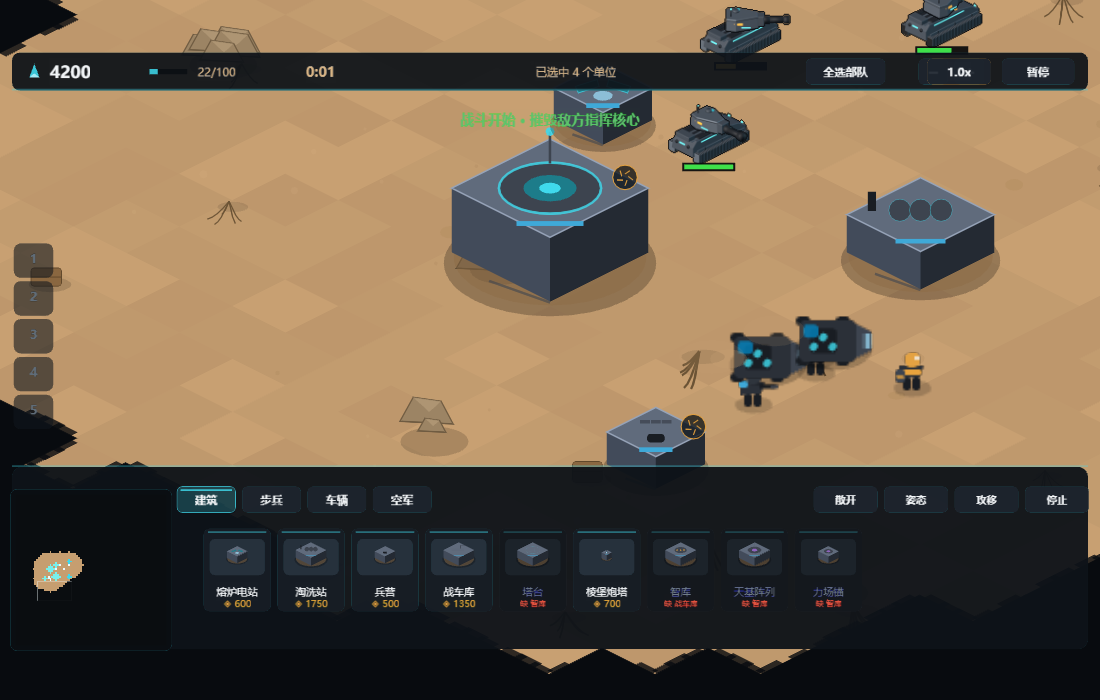
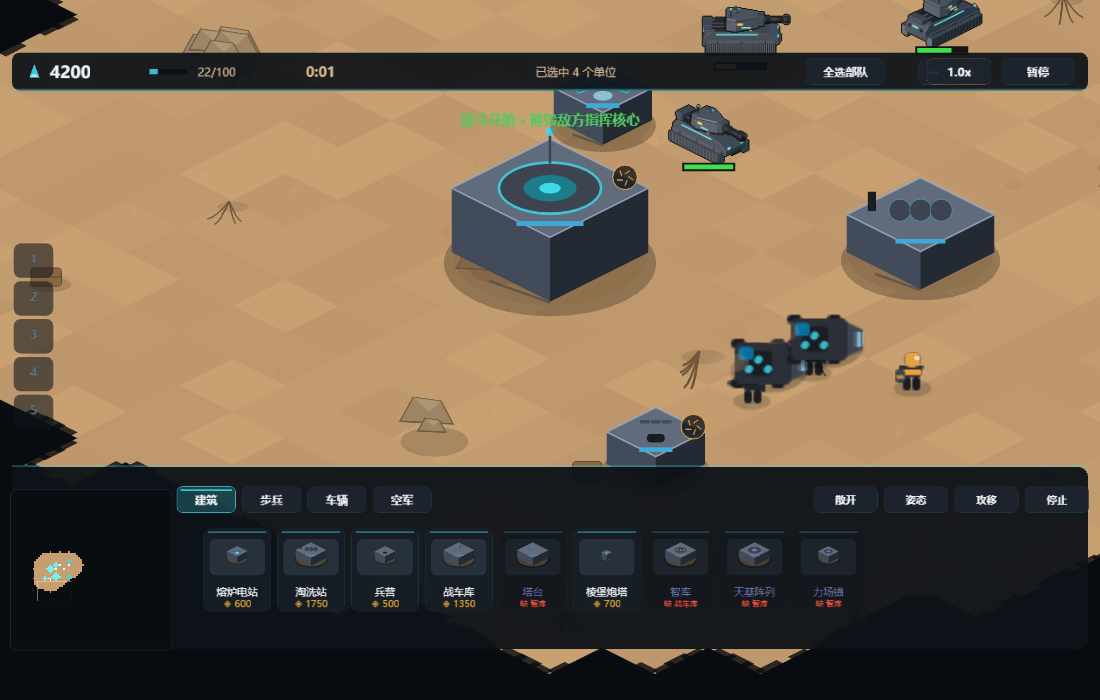
fix(art): v0.20 车身摇晃的根因——图集行方向反了（整行上下镜像）
用户指出“炮台是对的、车体不对”，这句话就是线索：炮塔图集只有一行，镜像看不出来；
车体图集有五行，镜像后每帧都取到另一行。

证据：用 __riftsandArt.bodyFrame(6, 0..3) 逐帧强制换图并截图，四帧是
「正面 / 3/4 / 长侧面 / 3/4」= 四个不同朝向；而同样四个下标去图集里裁，
四张图完全一样。矛盾只能来自行被颠倒读。

根因：sliceSheet 用 y = H - (row+1)*fh 计算 rect.y（假设 PNG 自上而下、
rect 自下而上）。Cocos 上传纹理时会把图像垂直翻转，于是“自下而上的 y”
实际取到的是镜像行：
  ready 行(0)          -> 行 4（facing 6/7 的行走帧）
  walk facing 6 行(4)  -> 行 0 = ready 的四个朝向  <-- 走一步转一次
  walk facing 2/3 行(2)-> 行 2（中间行，镜像后是自己，所以看起来正常）

修法：const y = row * fh。一处改动同时修好站姿与走姿；frameIndexFromRect
与 tools/artcheck.mjs 里同样的反向假设一起改。

顺带：
- 去掉前视点转向上的 EMA：低通让“先转向再行驶”的判定永不通过，单位会带着
  一条正常路径原地不动（pathsim 9-11 个永久停滞，blockT/repathTry 都是 0）。
  前视点本身已经把楼梯路径平均掉了，不需要再加低通。
- 新增“有路不走”看门狗：blockedNow 只覆盖“这一步被拒绝”，覆盖不到
  “转向判定停住”和“终点格被占”。有路径但 1.5s 无位移 → 绕行/重定位/停车。

回归：artcheck 9/9；dirtest 9/9；pathsim 停滞 0/62；crowdtest 7/7；
movetest 18/18；harvesttest 6/6；phystest 10/10；maptest 21/21；menutest 11/11；
assettest 20/20；inputtest 20/20；featuretest 14/14；speedtest 12/12；
battletest 6 分钟 收入 13906 / 击杀 29 / 0 报错

Changed region(s): [[0.6491, 0.45, 0.8036, 0.6], [0.5873, 0.15, 0.68, 0.24], [0.6182, 0.0, 0.7109, 0.09]]

diff --git a/project/assets/scripts/game/Entities.ts b/project/assets/scripts/game/Entities.ts
@@ -199,6 +199,8 @@ export class Unit extends Entity {
     repathHold = 0;
     /** how long a live move order has had an empty path (engine watchdog) */
     stallT = 0;
+    /** has a route but has not moved; catches stalls `blockedNow` misses */
+    stillT = 0;
     /** >0 while this unit is moving aside for someone else */
     asideT = 0;
     /** cached "engaged" target for attack-move */
@@ -405,21 +407,19 @@ export class Unit extends Entity {
          * here: take a point ~1.7 tiles along the polyline and steer at that.
          */
         const look = this.pathLookAhead(TILE * 1.7);
-        const wantDir = Math.atan2(look.y - this.y, look.x - this.x);
         /*
-         * ...and let the demanded heading settle instead of snapping to it.
+         * The look-ahead point IS the smoothing.
          *
-         * Popping a waypoint moves the look-ahead point, which moves the demanded
-         * bearing in one step. Smoothing it here (the reference's TurnTask does
-         * the same job by turning at `rot` per tick, but our faceTarget also feeds
-         * the stand-still-while-turning test) keeps the 8-way image on one bucket
-         * through a staircase.
+         * It already averages a grid staircase (two or three waypoints ahead), so
+         * the demanded bearing changes continuously with position and needs no
+         * extra low-pass. An EMA on top of it was tried and had to be removed: it
+         * lagged behind the hull's own turning, the "face your path before
+         * driving" test below never saw the hull settle, and a unit could stand
+         * still with a perfectly good one-waypoint path forever (pathsim: 9-11
+         * permanent stalls, `blockT` 0, `repathTry` 0 — the give-up chain never
+         * even ran because the unit was "turning", not "blocked").
          */
-        let dWant = wantDir - this.faceTarget;
-        while (dWant > Math.PI) dWant -= Math.PI * 2;
-        while (dWant < -Math.PI) dWant += Math.PI * 2;
-        this.faceTarget = this.faceTarget + dWant * Math.min(1, dt * 6);
-        this.faceTarget = wrapAngle(this.faceTarget);
+        this.faceTarget = wrapAngle(Math.atan2(look.y - this.y, look.x - this.x));
         let diff = this.faceTarget - this.face;
         while (diff > Math.PI) diff -= Math.PI * 2;
         while (diff < -Math.PI) diff += Math.PI * 2;

diff --git a/project/assets/scripts/assets/ArtPack.ts b/project/assets/scripts/assets/ArtPack.ts
@@ -66,8 +66,29 @@ function sliceSheet(tex: Texture2D, fw: number, fh: number, count: number): Spri
     for (let i = 0; i < count; i++) {
         const col = i % cols, row = Math.floor(i / cols);
         const x = col * fw;
-        const y = H - (row + 1) * fh;      // PNG rows are top-down, rects bottom-up
-        if (x + fw > W || y < 0) { out.push(null as unknown as SpriteFrame); continue; }
+        /*
+         * Row 0 is the TOP row of the PNG, and `rect.y` is measured from the top.
+         *
+         * This used to be `y = H - (row + 1) * fh` ("PNG rows are top-down, rects
+         * are bottom-up"). That assumption is wrong for the textures Cocos
+         * uploads: the image is flipped on upload, so a rect measured from the
+         * bottom ends up sampling the vertically mirrored row. Every body frame
+         * was therefore showing `row' = rows - 1 - row`:
+         *
+         *   ready (row 0)      -> showed row 4, i.e. walk frames of facings 6/7
+         *   walk  facing 6 (4) -> showed row 0, i.e. the READY row
+         *
+         * So a tank driving to the lower-right played the four *ready* frames of
+         * facings 0..3 as its walk cycle — four different orientations in a row,
+         * which is exactly "the hull keeps rotating while it drives". The turret
+         * sheet is a single row, so the mirror was invisible there: that is why
+         * the turret always looked right and only the body was wrong.
+         *
+         * Verified by setting rect.y directly on a live sprite: y = 0 shows the
+         * top row of the file.
+         */
+        const y = row * fh;
+        if (x + fw > W || y + fh > H) { out.push(null as unknown as SpriteFrame); continue; }
         const sf = new SpriteFrame();
         sf.texture = tex;
         sf.rect = new Rect(x, y, fw, fh);
@@ -248,6 +269,6 @@ export function frameIndexFromRect(sf: SpriteFrame): number {
     const fw = sf.rect.width, fh = sf.rect.height;
     const cols = Math.max(1, Math.floor(tex.width / fw));
     const col = Math.round(sf.rect.x / fw);
-    const row = Math.round((tex.height - sf.rect.y - fh) / fh);
+    const row = Math.round(sf.rect.y / fh);
     return row * cols + col;
 }

diff --git a/project/assets/scripts/game/Game.ts b/project/assets/scripts/game/Game.ts
@@ -2994,6 +2994,32 @@ export class Game {
                  */
             }
 
+            /*
+             * Watchdog 2: a route but no movement.
+             *
+             * `blockedNow` only covers "the step I tried was refused". A unit can
+             * also sit still while *not* trying to step: the hull-first rule stops
+             * it while it turns, and a path that ends on a tile a friend occupies
+             * leaves nothing to drive into. Those states never reach the chain
+             * below, so the unit held a move order for the rest of the match
+             * (pathsim: units parked 500 px from their goal with pathLeft 1,
+             * blockT 0, repathTry 0).
+             *
+             * Anything that has a route and has not moved for 1.5 s gets the same
+             * remedies as a blocked unit: detour, then relocate, then park.
+             */
+            if (!u.isAir && u.path.length > 0 && u.waitT <= 0) {
+                if (u.speedCur < 2) u.stillT += dt; else u.stillT = 0;
+                if (u.stillT > 1.5) {
+                    u.stillT = 0;
+                    const blk = this.blockerAt(u) || this.nearestBlocker(u);
+                    if (!this.repathAround(u, blk)) {
+                        const g2 = this.orderGoal(u);
+                        if (!g2 || !this.relocateTo(u, g2.x, g2.y)) this.failMove(u);
+                    }
+                }
+            }
+
             if (u.isAir || u.path.length === 0 || u.waitT > 0) {
                 u.trafficT = 0;
                 u.blockT = 0;

diff --git a/docs/REFERENCE-PARITY.md b/docs/REFERENCE-PARITY.md
@@ -957,3 +957,64 @@ phystest 10/10   harvesttest 6/6   artcheck 9/9   menutest 11/11
 maptest 21/21   assettest 20/20   inputtest 20/20   featuretest 14/14   speedtest 12/12
 steertest dirFlips 0 / retreats 0 / giveUp 0
 ```
+
+---
+
+## 20. v0.20：摇晃的真正根因——图集**行方向反了**（整行上下镜像）
+
+用户反复说「炮台是对的，车体在转」。这一句就是答案：炮塔图集只有 **一行**，行镜像看不出来；
+车体图集有 **5 行**，行镜像会把每一帧换成另一行的内容。
+
+### 20.1 怎么确认的
+
+把一帧的 `rect` 直接改掉再截图（`rect.y = 576 / 0 / 288 / 432`），四个 y 全部显示**同一张图**
+→ 说明改 rect 不触发重绘（Sprite 缓存 UV），这条路走不通。
+
+换一条：不读 rect，直接看**画面上是什么**。用 `bodyFrame(6, phase)` 逐帧换图并截图，
+四帧依次是「正面 / 3/4 / 长侧面 / 3/4」——**四个不同朝向**。而同样的四个下标去图集里裁，
+四张图完全一样（只有履带纹理不同）。两者矛盾，只能是**图集的行被上下颠倒读**。
+
+对照矩阵（index → 行）：`sliceSheet` 用 `y = H - (row+1)*fh`（假设 PNG 自上而下、rect 自下而上）。
+但 Cocos 上传纹理时把图像做了垂直翻转，于是「自下而上的 y」实际取到的是**镜像行**：
+
+| 内容 | 本应在 | 实际显示 |
+|---|---|---|
+| ready（行 0） | 8 个站姿朝向 | 行 4（facing 6/7 的行走帧） |
+| walk facing 6（行 4） | 该朝向 4 个相位 | **行 0 = ready 的 4 个朝向** |
+| walk facing 2/3（行 2） | 正确 | 正确（中间行镜像后仍是自己） |
+
+所以往右下（facing 6/7）行驶时，四个行走帧播的是 **ready 行的四个不同朝向**——
+画面就是「车体每帧转一次」，而炮台（单行图集）纹丝不动。正好对应用户说的
+「往右和右上晃、炮台是对的」。
+
+### 20.2 修法
+
+```ts
+const y = row * fh;        // 行号从上往下，rect.y 也从图像顶部量
+```
+
+一处改动同时修好站姿和行走：站姿此前也是错的（facing d 显示的是 facing 6/7 的走姿）。
+
+顺带：
+- `frameIndexFromRect()`、`tools/artcheck.mjs` 里同样的反向假设一起改掉；
+- `artcheck` 新增的两条断言（行走帧连续、跨块=相位数）现在才能真正验证帧序。
+
+### 20.3 顺带修掉的两个问题
+
+1. **前视点转向的 EMA 去掉**。加了低通后，车头还没对准，「先转向再行驶」的判定就一直不通过，
+   单位带着一条正常路径原地不动（pathsim 出现 9–11 个永久停滞，`blockT=0`、`repathTry=0`，
+   连放弃链都没进）。前视点本身已经把楼梯路径平滑了，不需要再加低通。
+2. **「有路不走」看门狗**：`blockedNow` 只覆盖「这一步被拒绝」。单位也可能在**没尝试迈步**时停住
+   （转向判定、终点格被占）。新增：有路径但 1.5 秒没位移 → 绕行 → 重定位 → 停车。
+
+### 20.4 验证
+
+```
+换图实验   bodyFrame(6, 0..3) 四帧同一朝向（修复前是四个朝向）
+artcheck   9/9（含行走四帧底边跨度 0）
+dirtest    9/9（八方向 0 次图块来回切）
+pathsim    停滞 0/62、到达 53（修复中一度 9–11，去掉 EMA + 看门狗后归零）
+crowdtest  7/7   movetest 18/18   harvesttest 6/6   phystest 10/10
+maptest 21/21   menutest 11/11   assettest 20/20   inputtest 20/20
+featuretest 14/14   speedtest 12/12   battletest 6 分钟 收入 13906 / 击杀 29 / 0 报错
+```

diff --git a/README.md b/README.md
@@ -6,7 +6,7 @@
 - 引擎：Cocos Creator 3.8.8
 - 语言：TypeScript
 - 仓库：https://github.com/Liuoodh/riftsand
-- 当前版本：**v0.19.0-dev — 车身晃动＝行走帧在颠（已归零）；血条按原版重画**
+- 当前版本：**v0.20.0-dev — 摇晃根因：图集行方向反了（整行上下镜像）**
 
 ![主菜单](docs/shots/menu.png)
 
@@ -160,6 +160,29 @@ frameIndex = startFrame + facingMult * facingIndex + animFrame
 
 等距下屏幕矩形对应世界**菱形**，把两个角反投影成世界 AABB 必然漏选。
 现在框选是「逐单位投影到屏幕再判断是否在矩形内」——这是等距下唯一正确的做法。
+
+## v0.20：摇晃的根因是图集「行方向反了」（整行上下镜像）
+
+你说“炮台是对的、车体不对”，这句话直接指向答案：炮塔图集只有一行，行镜像看不出来；
+车体图集有 5 行，镜像后每帧都取到另一行。
+
+证据：用 `bodyFrame(6, 0..3)` 逐帧换图截图，四帧是「正面 / 3/4 / 长侧面 / 3/4」——
+四个不同朝向；而同样四个下标去图集里裁，四张图一模一样。矛盾只能来自行被颠倒读。
+
+原因：`sliceSheet` 的 `y = H - (row+1)*fh` 假设 rect 自下而上，但 Cocos 上传时把图翻了，
+于是取到镜像行。结果：ready 行（站姿）显示行走行，facing 6 的行走行（第 4 行）显示**ready 行**
+——四个行走帧播的是四个不同朝向，往右下走时车体每帧转一次。
+
+修正：`y = row * fh`。一处改动同时修好站姿与走姿（站姿此前也错了）。
+`artcheck` / `frameIndexFromRect` 里同样的反向假设一起改。
+
+顺带：
+- 去掉前视点转向上的 EMA（低通让“先转向再行驶”判定永不通过，单位带路径原地不动）
+- 新增“有路不走”看门狗：有路径但 1.5 秒无位移 → 绕行 → 重定位 → 停车
+
+回归：artcheck 9/9、dirtest 9/9、pathsim 停滞 0/62、crowdtest 7/7、movetest 18/18、
+harvesttest 6/6、phystest 10/10、maptest 21/21、menutest 11/11、assettest 20/20、
+inputtest 20/20、featuretest 14/14、speedtest 12/12、6 分钟对战 0 报错。
 
 ## v0.19：车身晃动的真身是素材在颠、血条按原版重画
 
